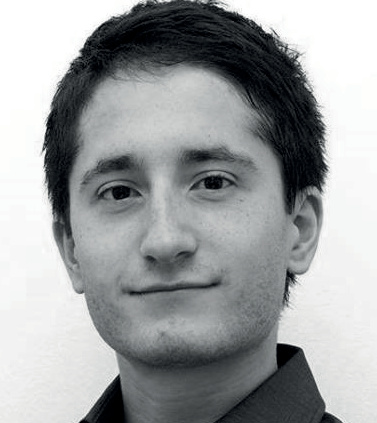
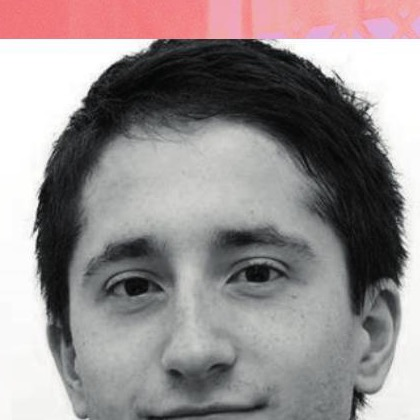
fix(pages): Portraits page 2 correctement assignés + accents
Corrections :
- 8 portraits page 2 recoupés depuis le rendu PDF HD avec les bonnes personnes
  (le matching automatique avait mélangé les portraits)
- Page 9 : spectateur-oeuvre corrigé en spectateur-œuvre
- Page 13 : PIECE corrigé en PIÈCE MY STORY

diff --git a/src/index.html b/src/index.html
@@ -441,7 +441,7 @@
 
                 <!-- Intro -->
                 <div class="page9__intro">
-                    <h2 id="page9-title">Nous mettons les nouvelles technologies au service de récits qui réinventent le lien spectateur-oeuvre dans des espaces narratifs inédits.</h2>
+                    <h2 id="page9-title">Nous mettons les nouvelles technologies au service de récits qui réinventent le lien spectateur-œuvre dans des espaces narratifs inédits.</h2>
                 </div>
 
                 <!-- Grid 2x2 cartes projets -->
@@ -609,7 +609,7 @@
                             <span class="page13__card-number" aria-hidden="true">1</span>
                         </div>
                         <div class="page13__card-body" style="background-image: url('./img/pages/page-13/page-13-image-6.jpg')">
-                            <h3 class="page13__card-title">PIECE MY STORY</h3>
+                            <h3 class="page13__card-title">PIÈCE MY STORY</h3>
                             <p class="page13__card-subtitle">Confession inachevée</p>
                         </div>
                     </article>
